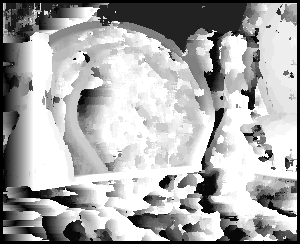
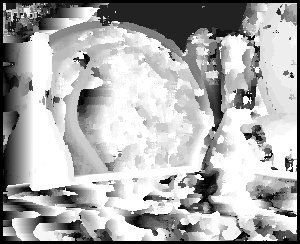
indexing

diff --git a/depth_map.py b/depth_map.py
@@ -15,7 +15,7 @@ def sad(img1, img2):
 		float -- sum of absolute differences between img1 and shifted img2
 	'''
 
-	return np.sum(np.abs(np.subtract(img1,img2, dtype=np.float)))
+	return np.sum(np.abs(np.subtract(img1, img2, dtype=np.float)))
 
 def get_block(img, y, x, half_window_size):
 	'''
@@ -54,14 +54,9 @@ def distance_to_best_block(block1, block1_coordinates, img2, search_size, half_w
 	best_sad = float('inf')
 	best_x = block1_x
 
-	x_start = max(0, block1_x - search_size)
-
-	for x in range(x_start, x_start + search_size):
+	for x in range(max(half_window_size, block1_x - search_size), min(img2.shape[1] - half_window_size, block1_x + search_size)):
 
 		block2 = get_block(img2, y, x, half_window_size)
-
-		if(block1.shape != block2.shape):
-			continue;
 
 		curr_sad = sad(block1, block2)
 		if(curr_sad < best_sad):
@@ -69,12 +64,6 @@ def distance_to_best_block(block1, block1_coordinates, img2, search_size, half_w
 			best_x = x
 			best_block = block2
 
-	'''
-	plt.imshow(block1)
-	plt.show()
-	plt.imshow(best_block)
-	plt.show()
-	'''
 	return abs(block1_x - best_x)
 
 def depth_map(left, right, result_name, window_size, search_size):
@@ -82,9 +71,9 @@ def depth_map(left, right, result_name, window_size, search_size):
 	im_right = cv2.resize(cv2.cvtColor(cv2.imread(right), cv2.COLOR_BGR2GRAY), (300, 244));
 	[h,w] = im_left.shape;
 
-	disparity = np.zeros((h, w), dtype='float32');	
+	disparity = np.zeros((h, w), dtype='uint8');	
 	half_window_size = int(window_size/2);
-	scale = 1.0/search_size
+	scale = 255.0/search_size
 	print("creating disparity map....")
 	for y in range(half_window_size, h-half_window_size):
 		for x in range(half_window_size, w-half_window_size):
@@ -93,7 +82,7 @@ def depth_map(left, right, result_name, window_size, search_size):
 
 	print("created disparity map!")
 
-	cv2.imwrite("./disparity_maps/" + result_name, disparity * 255)
+	cv2.imwrite("./disparity_maps/" + result_name, disparity)
 
 	return disparity
 
